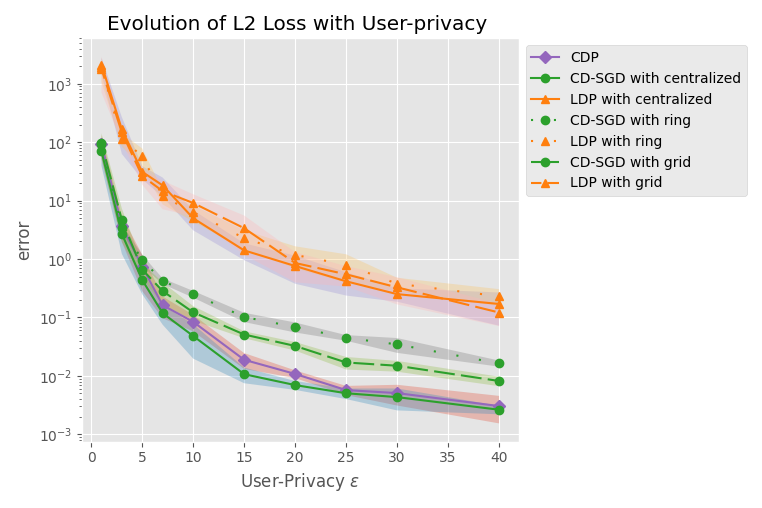
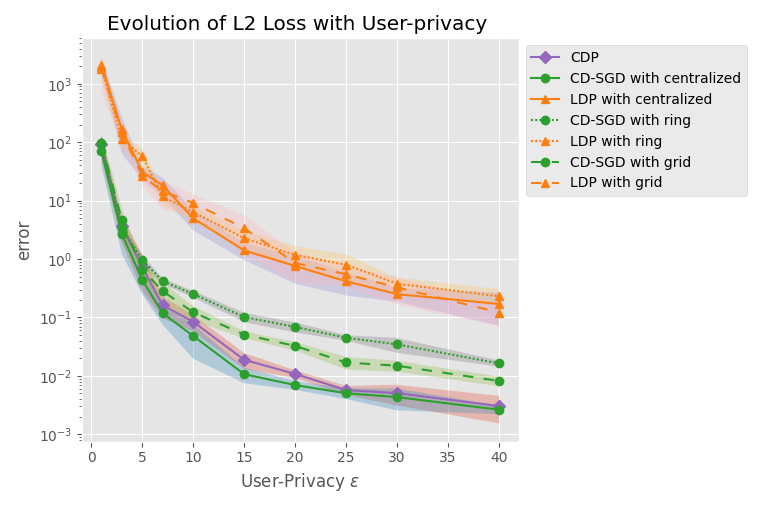
plots for n = 16

diff --git a/utils/plotting.py b/utils/plotting.py
@@ -40,7 +40,7 @@ def plot_loss(topology_name, method, A, B, gamma, num_nodes, num_dim, sigma, sig
 
 
 # dictionary for plot colors ans style
-topo_to_style = {"ring": (0, (1, 10)), "grid": (5, (10, 3)), "centralized": 'solid'}
+topo_to_style = {"ring": (0, (1, 1)), "grid": (0, (5, 5)), "centralized": 'solid'}
 method_to_marker = {"LDP": "^", "CDP": "s", "Corr": "o"}
 
 # Function to plot threee losses: LDP, CD-SGD and CDP
@@ -115,8 +115,9 @@ def plot_comparison_loss_CI(topology_names, A, B, num_nodes, num_dim, gamma, c_c
     fig, ax = plt.subplots()
     fig.set_size_inches(3 * 2.54, 2 * 2.54)
     t = np.arange(0, num_iter + 1)[::20]
-    ax.semilogy(t, np.mean(errors_centr, axis = 0)[::20], label="CDP", color='tab:purple', linestyle = 'solid')
-    ax.fill_between(t, (np.mean(errors_centr, axis = 0) - np.std(errors_centr, axis = 0))[::20], (np.mean(errors_centr, axis = 0) + np.std(errors_centr, axis = 0))[::20], alpha = 0.3)
+    ax.semilogy(t, np.mean(errors_centr, axis = 0)[::20], label="CDP", color='tab:purple', linestyle = 'solid', alpha = 0.8)
+    ax.fill_between(t, (np.mean(errors_centr, axis = 0) - np.std(errors_centr, axis = 0))[::20], (np.mean(errors_centr, axis = 0) + np.std(errors_centr, axis = 0))[::20], 
+                    facecolor = 'tab:purple', alpha = 0.2)
 
     for i, topology_name in enumerate(topology_names):
         W = topology.FixedMixingMatrix(topology_name, num_nodes)
@@ -129,10 +130,13 @@ def plot_comparison_loss_CI(topology_names, A, B, num_nodes, num_dim, gamma, c_c
             errors_ldp.append(optimizers.optimize_decentralized_correlated(X, W, A, B, gamma, sigma_ldp, 0, c_clip, num_gossip=num_gossip, num_iter=num_iter)[0])
 
         ax.semilogy(t, np.mean(errors_cor, axis = 0)[::20], label=f"CD-SGD with {topology_name}", color = 'tab:green', 
-                    linestyle = topo_to_style[topology_name])
-        ax.fill_between(t, (np.mean(errors_cor, axis = 0) - np.std(errors_cor, axis = 0))[::20], (np.mean(errors_cor, axis = 0) + np.std(errors_cor, axis = 0))[::20], alpha = 0.3)
-        ax.semilogy(t, np.mean(errors_ldp, axis = 0)[::20], label=f"LDP with {topology_name}", color = 'tab:orange', linestyle = topo_to_style[topology_name])
-        ax.fill_between(t, (np.mean(errors_ldp, axis = 0) - np.std(errors_ldp, axis = 0))[::20], (np.mean(errors_ldp, axis = 0) + np.std(errors_ldp, axis = 0))[::20], alpha = 0.3)
+                    linestyle = topo_to_style[topology_name], alpha = 0.8)
+        ax.fill_between(t, (np.mean(errors_cor, axis = 0) - np.std(errors_cor, axis = 0))[::20], (np.mean(errors_cor, axis = 0) + np.std(errors_cor, axis = 0))[::20], 
+                        facecolor = 'tab:green', alpha = 0.2)
+        ax.semilogy(t, np.mean(errors_ldp, axis = 0)[::20], label=f"LDP with {topology_name}", color = 'tab:orange', 
+                    linestyle = topo_to_style[topology_name], alpha = 0.8)
+        ax.fill_between(t, (np.mean(errors_ldp, axis = 0) - np.std(errors_ldp, axis = 0))[::20], (np.mean(errors_ldp, axis = 0) + np.std(errors_ldp, axis = 0))[::20], 
+                        facecolor = 'tab:orange', alpha = 0.2)
     
     
     ax.set_xlabel('iteration')
